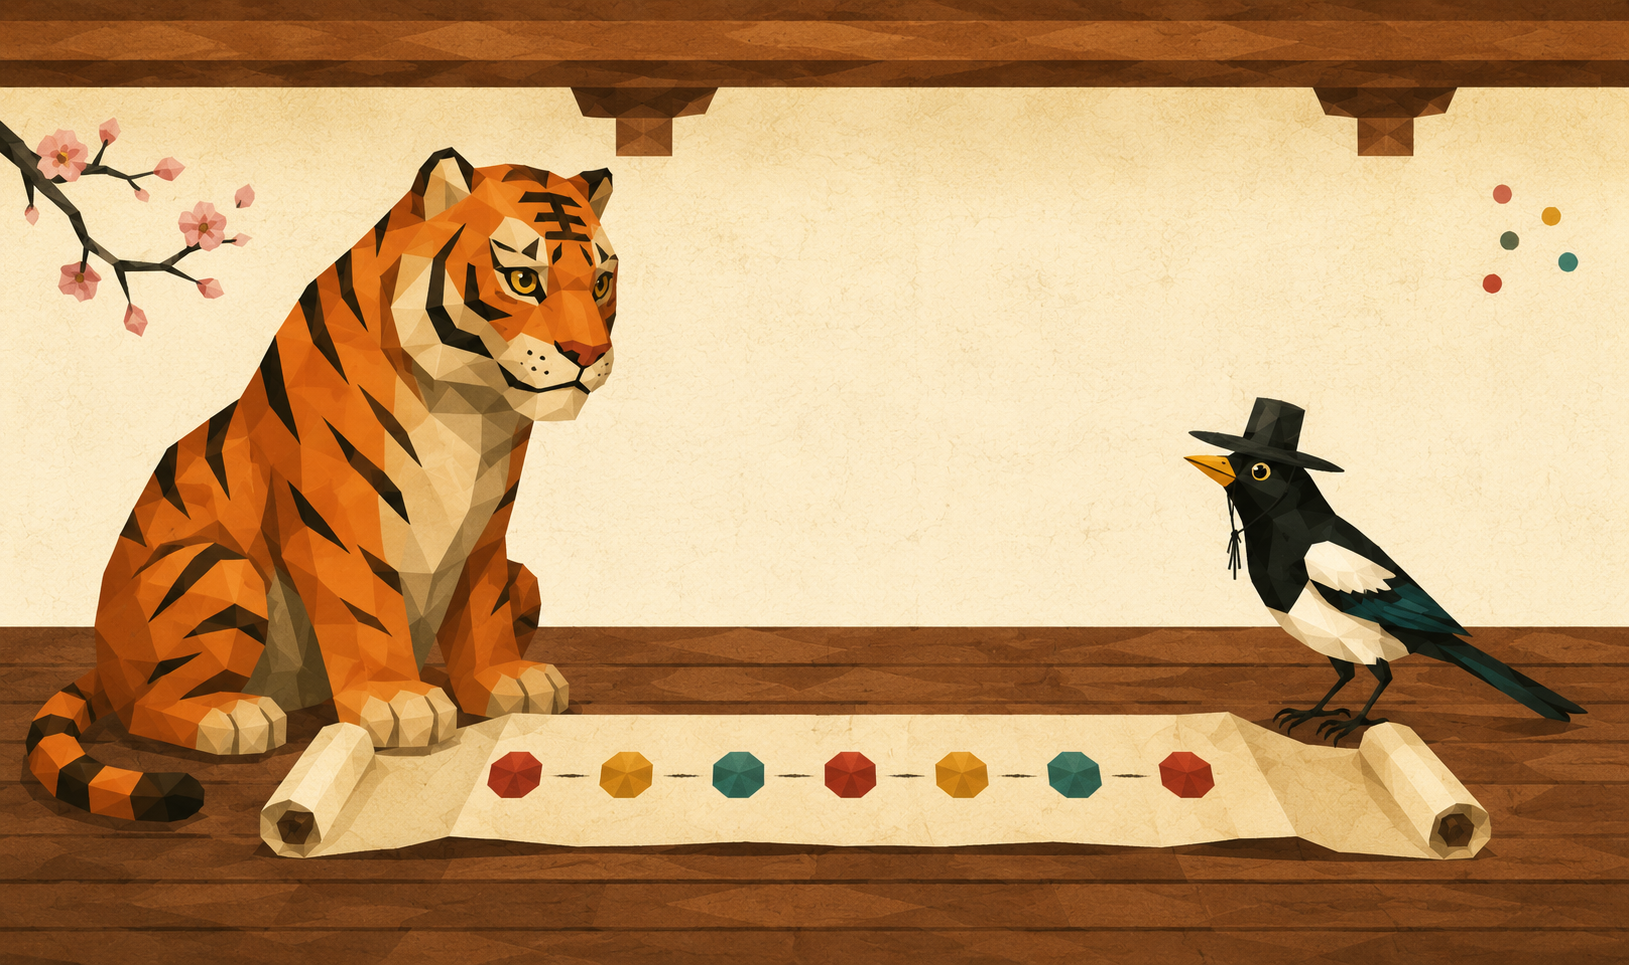
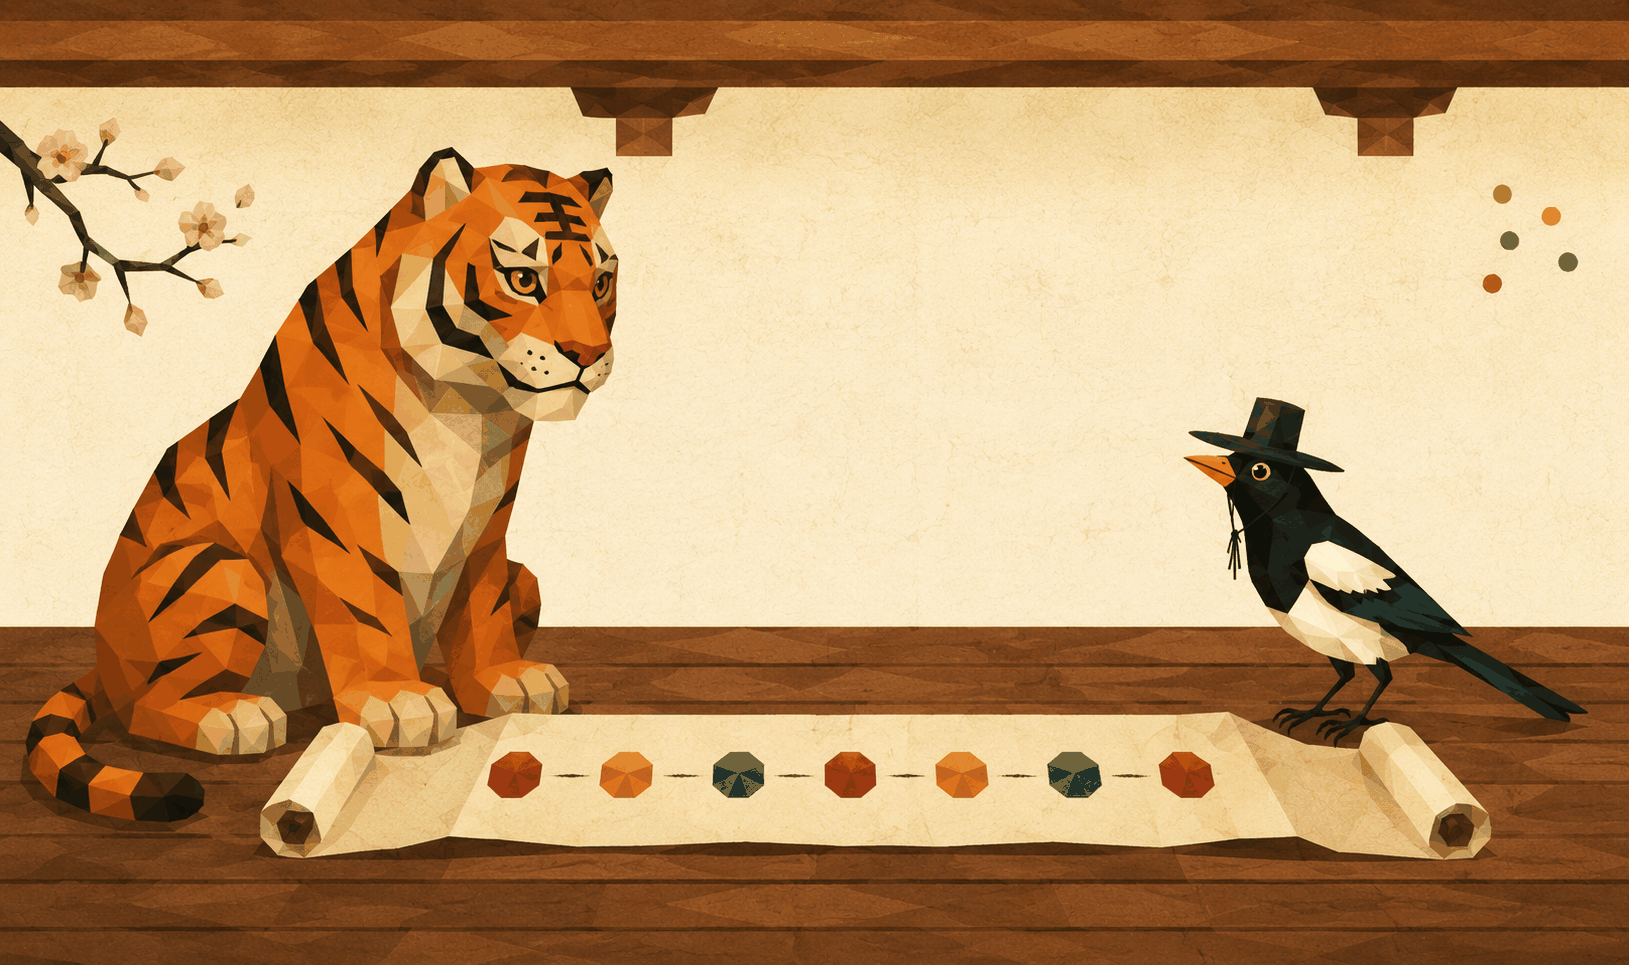
feat(phase-4b+5): Kkeunmari unique header + scenario list tiles get backdrop + sidekick mascot
Phase 4b (partial — Wordle/Chosung still on porch.png until their PNGs land):
- swap Kkeunmari header from shared porch.png to dedicated kkeunmari_hero.png
- compress kkeunmari_hero.png (2.3 MB → 935 KB) + listening_hero.png (2.4 MB → 794 KB) via 256-color palette quantize; originals backed up to .backup_uncompressed/
- retire tiger_thinking.png (Mascot already aliases _tigerThinking to _tigerNeutral)

Phase 5 — scenario list-tile enrichment:
- new _ScenarioThumbnail widget composites the scenes/{backdropKey}.png at fit-cover under a soft accent vignette, with the sidekick mascot (forSpeaker ?? tiger fallback) overlapped bottom-right; locked tiles render through a grayscale ColorFilter
- _ScenarioCardBody (56×56) and _NextRecommended (44×44) both use it, replacing the bare-emoji boxes
- backdrop keyword map moved from scenario_player_screen into a shared ScenarioBackdrop extension on Scenario, so both consumers stay in sync; map gains plans/postpone/cancel/late entries covering the 5 new 2026-05-27 scenarios

REGISTRY.md updated with the new mappings + tiger_thinking retirement note.
flutter analyze 0, tests 47/47.

diff --git a/lib/screens/scenarios_list_screen.dart b/lib/screens/scenarios_list_screen.dart
@@ -10,6 +10,7 @@ import '../widgets/sori/badge.dart';
 import '../widgets/sori/card.dart';
 import '../widgets/sori/empty_state.dart';
 import '../widgets/sori/hanok_header.dart';
+import '../widgets/sori/mascot.dart';
 import '../widgets/sori/pressable.dart';
 import '../widgets/sori/tokens.dart';
 import '../l10n/generated/app_localizations.dart';
@@ -388,21 +389,12 @@ class _ScenarioCardBody extends StatelessWidget {
         ),
         child: Row(
           children: [
-            // Emoji box (56×56)
-            Container(
-              width: 56,
-              height: 56,
-              decoration: BoxDecoration(
-                color: locked
-                    ? s.surfaceAlt
-                    : accent.withValues(alpha: 0.16),
-                borderRadius: SoriRadius.brSm,
-              ),
-              alignment: Alignment.center,
-              child: Text(
-                scenario.emoji,
-                style: const TextStyle(fontSize: 28),
-              ),
+            // Scene + sidekick thumbnail (Phase 5)
+            _ScenarioThumbnail(
+              scenario: scenario,
+              accent: accent,
+              locked: locked,
+              size: 56,
             ),
             const SizedBox(width: Spacing.md),
 
@@ -697,15 +689,11 @@ class _NextRecommended extends StatelessWidget {
         ),
         child: Row(
           children: [
-            Container(
-              width: 44,
-              height: 44,
-              decoration: BoxDecoration(
-                color: accent.withValues(alpha: 0.18),
-                borderRadius: SoriRadius.brSm,
-              ),
-              alignment: Alignment.center,
-              child: Text(scenario.emoji, style: const TextStyle(fontSize: 22)),
+            _ScenarioThumbnail(
+              scenario: scenario,
+              accent: accent,
+              locked: false,
+              size: 44,
             ),
             const SizedBox(width: Spacing.md),
             Expanded(
@@ -849,6 +837,123 @@ class _EmptyLevelCard extends StatelessWidget {
             ),
           ),
         ],
+      ),
+    );
+  }
+}
+
+// ─── Scenario Thumbnail (Phase 5) ─────────────────────────────────────────────
+// Replaces the per-tile emoji box with a backdrop scene (location identity)
+// + sidekick mascot overlay (character identity). Falls back to a tinted
+// accent gradient + emoji when no backdrop matches.
+
+class _ScenarioThumbnail extends StatelessWidget {
+  final Scenario scenario;
+  final Color accent;
+  final bool locked;
+  final double size;
+
+  const _ScenarioThumbnail({
+    required this.scenario,
+    required this.accent,
+    required this.locked,
+    required this.size,
+  });
+
+  @override
+  Widget build(BuildContext context) {
+    final s = SoriSurfaces.of(context);
+    final key = scenario.backdropKey;
+    final mascotSize = size * 0.62;
+
+    final base = ClipRRect(
+      borderRadius: SoriRadius.brSm,
+      child: SizedBox(
+        width: size,
+        height: size,
+        child: Stack(
+          fit: StackFit.expand,
+          children: [
+            if (key != null)
+              Image.asset(
+                'assets/illustrations/scenes/$key.png',
+                fit: BoxFit.cover,
+                filterQuality: FilterQuality.medium,
+                errorBuilder: (_, __, ___) => _gradient(s),
+              )
+            else
+              _gradient(s),
+            // Subtle vignette so mascot reads regardless of backdrop brightness.
+            Container(
+              decoration: BoxDecoration(
+                gradient: LinearGradient(
+                  begin: Alignment.topLeft,
+                  end: Alignment.bottomRight,
+                  colors: [
+                    Colors.transparent,
+                    accent.withValues(alpha: 0.18),
+                  ],
+                ),
+              ),
+            ),
+            // Sidekick mascot — fall back to tiger for unknown speakers so
+            // every tile shows a character.
+            Positioned(
+              right: -2,
+              bottom: -2,
+              child: SizedBox(
+                width: mascotSize,
+                height: mascotSize,
+                child: Mascot.forSpeaker(
+                      scenario.sidekick ?? '',
+                      size: mascotSize,
+                      emotion: MascotEmotion.smile,
+                    ) ??
+                    Mascot.tiger(
+                      emotion: MascotEmotion.smile,
+                      size: mascotSize,
+                    ),
+              ),
+            ),
+            // No backdrop? show the emoji small in the top-left so the tile
+            // still carries the scenario's own identity glyph.
+            if (key == null)
+              Positioned(
+                left: 4,
+                top: 2,
+                child: Text(
+                  scenario.emoji,
+                  style: TextStyle(fontSize: size * 0.32),
+                ),
+              ),
+          ],
+        ),
+      ),
+    );
+
+    if (!locked) return base;
+    return ColorFiltered(
+      colorFilter: const ColorFilter.matrix(<double>[
+        0.2126, 0.7152, 0.0722, 0, 0,
+        0.2126, 0.7152, 0.0722, 0, 0,
+        0.2126, 0.7152, 0.0722, 0, 0,
+        0,      0,      0,      1, 0,
+      ]),
+      child: base,
+    );
+  }
+
+  Widget _gradient(SoriSurfaces s) {
+    return DecoratedBox(
+      decoration: BoxDecoration(
+        gradient: LinearGradient(
+          begin: Alignment.topLeft,
+          end: Alignment.bottomRight,
+          colors: [
+            accent.withValues(alpha: 0.22),
+            accent.withValues(alpha: 0.10),
+          ],
+        ),
       ),
     );
   }

diff --git a/lib/screens/scenario_player_screen.dart b/lib/screens/scenario_player_screen.dart
@@ -67,51 +67,10 @@ class _ScenarioPlayerScreenState extends State<ScenarioPlayerScreen> {
 
   // ─── Backdrop-Map ──────────────────────────────────────────────────────────
 
-  /// Scenario ID 키워드 → backdrop asset 키 매핑.
-  ///
-  /// 현재 5장만 보유 (cafe, restaurant, market, hotel, directions). 13개
-  /// 시나리오 모두를 이 5장 중 분위기가 가까운 곳으로 흡수.
-  /// 예: convenience/pharmacy → market(사기 공간), airport/taxi/subway →
-  /// directions(이동), introduce/couple/warm → cafe(일상 대화).
-  String? get _backdropKey {
-    final id = _scenario?.id ?? '';
-    const map = <String, String>{
-      // 음식·카페
-      'cafe': 'cafe',
-      'starbucks': 'cafe',
-      'bunshik': 'restaurant',
-      'bunsik': 'restaurant',
-      'tteokbokki': 'restaurant',
-      'dinner': 'restaurant',
-      'hoeshik': 'restaurant',
-      // 시장·구매 공간
-      'market': 'market',
-      'shopping': 'market',
-      'myeongdong': 'market',
-      'convenience': 'market',
-      'store': 'market',
-      'pharmacy': 'market',
-      // 숙박
-      'hotel': 'hotel',
-      // 이동·길찾기
-      'directions': 'directions',
-      'airport': 'directions',
-      'arrival': 'directions',
-      'taxi': 'directions',
-      'subway': 'directions',
-      'transfer': 'directions',
-      // 일상 대화 (카페 분위기로 흡수)
-      'introduce': 'cafe',
-      'encouragement': 'cafe',
-      'warm': 'cafe',
-      'couple': 'cafe',
-      'argument': 'cafe',
-    };
-    for (final entry in map.entries) {
-      if (id.contains(entry.key)) return entry.value;
-    }
-    return null;
-  }
+  /// Scenario → scenes/ backdrop key. Delegates to
+  /// `ScenarioBackdrop.backdropKey` so the scenarios list tile reuses the
+  /// same mapping (single source of truth).
+  String? get _backdropKey => _scenario?.backdropKey;
 
   // ─── Stage-Berechnung ──────────────────────────────────────────────────────
 

diff --git a/lib/models/scenario.dart b/lib/models/scenario.dart
@@ -285,3 +285,47 @@ class Scenario {
     preferredVoice: j['preferredVoice'] as String?,
   );
 }
+
+/// Scenario ID -> scenes/ backdrop key. Shared by ScenarioPlayer (full-screen
+/// 0.08 opacity background) and the scenarios list (tile thumbnail).
+/// Adding a new scene PNG only requires a new entry here.
+extension ScenarioBackdrop on Scenario {
+  static const _map = <String, String>{
+    'cafe': 'cafe',
+    'starbucks': 'cafe',
+    'bunshik': 'restaurant',
+    'bunsik': 'restaurant',
+    'tteokbokki': 'restaurant',
+    'dinner': 'restaurant',
+    'hoeshik': 'restaurant',
+    'market': 'market',
+    'shopping': 'market',
+    'myeongdong': 'market',
+    'convenience': 'market',
+    'store': 'market',
+    'pharmacy': 'market',
+    'hotel': 'hotel',
+    'directions': 'directions',
+    'airport': 'directions',
+    'arrival': 'directions',
+    'taxi': 'directions',
+    'subway': 'directions',
+    'transfer': 'directions',
+    'introduce': 'cafe',
+    'encouragement': 'cafe',
+    'warm': 'cafe',
+    'couple': 'cafe',
+    'argument': 'cafe',
+    'plans': 'cafe',
+    'postpone': 'cafe',
+    'cancel': 'cafe',
+    'late': 'directions',
+  };
+
+  String? get backdropKey {
+    for (final entry in _map.entries) {
+      if (id.contains(entry.key)) return entry.value;
+    }
+    return null;
+  }
+}

diff --git a/lib/screens/kkeunmari_screen.dart b/lib/screens/kkeunmari_screen.dart
@@ -234,7 +234,7 @@ class _KkeunmariScreenState extends State<KkeunmariScreen> {
             children: [
               // ── hero ──
               HanokHeader(
-                asset: 'assets/illustrations/hanok/porch.png',
+                asset: 'assets/illustrations/hanok/kkeunmari_hero.png',
                 fallbackIcon: Icons.link_rounded,
                 fallbackTint: SoriColors.accent,
                 aspectRatio: 10 / 3,

diff --git a/docs/assets/REGISTRY.md b/docs/assets/REGISTRY.md
@@ -25,10 +25,10 @@ where possible (see Phase 4 compression notes).
 | `study_classroom.png` | Vocab module header | 10:3 banner | [vocab_screen.dart:279-280](../../lib/screens/vocab_screen.dart#L279-L280) | HanokHeader gradient + `menu_book_outlined` |
 | `study_scholar.png` | Grammar + Settings header | 10:3 banner | [grammar_screen.dart:166-167](../../lib/screens/grammar_screen.dart#L166-L167), [settings_screen.dart:56-57](../../lib/screens/settings_screen.dart#L56-L57) | HanokHeader gradient + `auto_stories_outlined` |
 | `calligraphy.png` | Hangul overview tab header | 10:3 banner | [hangul_screen.dart:87-88](../../lib/screens/hangul_screen.dart#L87-L88) | HanokHeader gradient + `draw_outlined` |
-| `porch.png` | Chosung + Wordle + Kkeunmari header (shared, Phase 4b: split into unique art) | 10:3 banner | [chosung_quiz_screen.dart:286-287](../../lib/screens/chosung_quiz_screen.dart#L286-L287), [wordle_screen.dart:324-325](../../lib/screens/wordle_screen.dart#L324-L325), [kkeunmari_screen.dart:236-237](../../lib/screens/kkeunmari_screen.dart#L236-L237) | HanokHeader gradient + module-specific icon |
+| `porch.png` | Chosung + Wordle header (shared, Phase 4b: split into unique art when PNGs land) | 10:3 banner | [chosung_quiz_screen.dart:286-287](../../lib/screens/chosung_quiz_screen.dart#L286-L287), [wordle_screen.dart:324-325](../../lib/screens/wordle_screen.dart#L324-L325) | HanokHeader gradient + module-specific icon |
 | `achievements.png` | Stats screen header | 10:3 banner | [stats_screen.dart:73-74](../../lib/screens/stats_screen.dart#L73-L74) | HanokHeader gradient + `bar_chart_rounded` |
 | `listening_hero.png` | Listening screen header | 10:3 banner | [listening_screen.dart:167-168](../../lib/screens/listening_screen.dart#L167-L168) | HanokHeader gradient + `headphones_rounded` |
-| `kkeunmari_hero.png` | Reserved for future Kkeunmari unique banner | 10:3 banner | _(unused, will replace porch.png)_ | — |
+| `kkeunmari_hero.png` | Kkeunmari screen header | 10:3 banner | [kkeunmari_screen.dart:236-237](../../lib/screens/kkeunmari_screen.dart#L236-L237) | HanokHeader gradient + `link_rounded` |
 | `gate_frame.png` | Intro gate — outer 단청 frame layer | square 1024² | [gate_art.dart:21](../../lib/widgets/sori/hanok/gate_art.dart#L21) | painter fallback in GateArt |
 | `gate_door_left.png` | Intro gate — left door (animated open) | half-frame | [gate_art.dart:22](../../lib/widgets/sori/hanok/gate_art.dart#L22) | painter fallback |
 | `gate_door_right.png` | Intro gate — right door (animated open) | half-frame | [gate_art.dart:24](../../lib/widgets/sori/hanok/gate_art.dart#L24) | painter fallback |
@@ -54,7 +54,7 @@ hard-code these paths in screens).
 | `tiger_celebrate.png` | `celebrate` | arms up / confetti |
 | `tiger_sad.png` | `worry` | downturned mouth |
 | `tiger_smile.png` | `smile` (default) | gentle smile, hero pose |
-| `tiger_neutral.png` | `neutral` (default), alias for `thinking` | facing forward |
+| `tiger_neutral.png` | `neutral` (default), alias for `thinking` and `_tigerThinking` | facing forward; dedicated thinking PNG retired 2026-05-28 |
 
 ### Magpie (`MascotKind.magpie`) — [mascot.dart:103-111](../../lib/widgets/sori/mascot.dart#L103-L111)
 
@@ -75,21 +75,28 @@ to guarantee a widget).
 
 ## `assets/illustrations/scenes/` — scenario backdrops
 
-Recommended size: **1024 × 1024** (or 4:3) RGB PNG. Rendered at
-`Opacity(0.08)` behind the scenario player ([scenario_player_screen.dart:1039-1051](../../lib/screens/scenario_player_screen.dart#L1039-L1051))
-and again sharper inside `_ScenarioIntroArt` ([scenario_player_screen.dart:1131-1146](../../lib/screens/scenario_player_screen.dart#L1131-L1146)).
+Recommended size: **1024 × 1024** (or 4:3) RGB PNG. Used in three slots:
 
-| Filename | Mapped scenario keywords | Source |
-|---|---|---|
-| `cafe.png` | `cafe`, `starbucks`, `introduce`, `encouragement`, `warm`, `couple`, `argument` | [scenario_player_screen.dart:80-108](../../lib/screens/scenario_player_screen.dart#L80-L108) |
-| `restaurant.png` | `bunshik`, `bunsik`, `tteokbokki`, `dinner`, `hoeshik` | same |
-| `market.png` | `market`, `shopping`, `myeongdong`, `convenience`, `store`, `pharmacy` | same |
-| `hotel.png` | `hotel` | same |
-| `directions.png` | `directions`, `airport`, `arrival`, `taxi`, `subway`, `transfer` | same |
+1. Full-screen at `Opacity(0.08)` behind the scenario player ([scenario_player_screen.dart](../../lib/screens/scenario_player_screen.dart) `_backdropKey`)
+2. Sharper inside `_ScenarioIntroArt` (same file)
+3. As the 44×44 / 56×56 list tile thumbnail in [scenarios_list_screen.dart](../../lib/screens/scenarios_list_screen.dart) `_ScenarioThumbnail`
 
-A scenario whose ID matches none of the keywords renders no backdrop
-(returns `null` from `_backdropKey`). Phase 5 candidates for new backdrops:
-`hospital`, `office`, `home`, `park`.
+Keyword → backdrop mapping is the single source of truth in
+[scenario.dart `ScenarioBackdrop` extension](../../lib/models/scenario.dart). Both
+consumers go through `scenario.backdropKey` — never duplicate the map.
+
+| Filename | Mapped scenario keywords |
+|---|---|
+| `cafe.png` | `cafe`, `starbucks`, `introduce`, `encouragement`, `warm`, `couple`, `argument`, `plans`, `postpone`, `cancel` |
+| `restaurant.png` | `bunshik`, `bunsik`, `tteokbokki`, `dinner`, `hoeshik` |
+| `market.png` | `market`, `shopping`, `myeongdong`, `convenience`, `store`, `pharmacy` |
+| `hotel.png` | `hotel` |
+| `directions.png` | `directions`, `airport`, `arrival`, `taxi`, `subway`, `transfer`, `late` |
+
+A scenario whose ID matches none of the keywords falls back to a tinted
+accent gradient + emoji glyph in the list tile (and renders no backdrop in
+the player). Phase 5 candidates for new backdrops: `hospital`, `office`,
+`home`, `park`.
 
 ---
 
